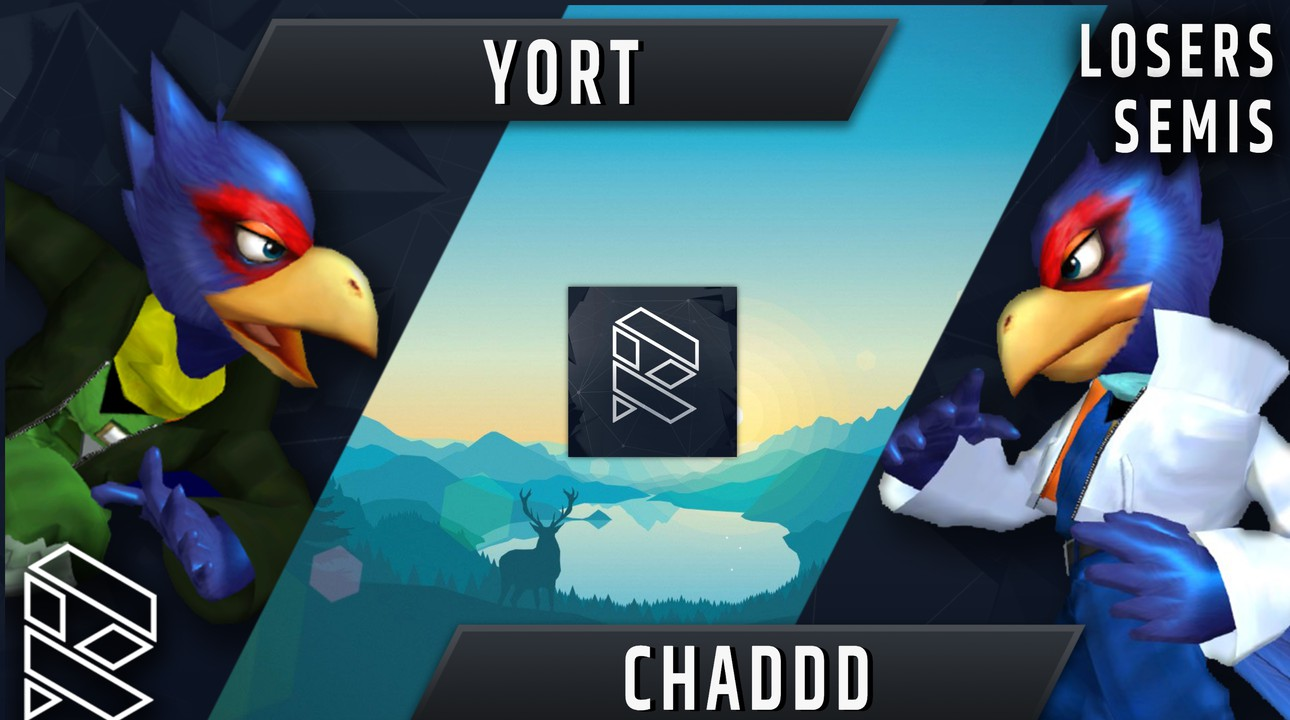
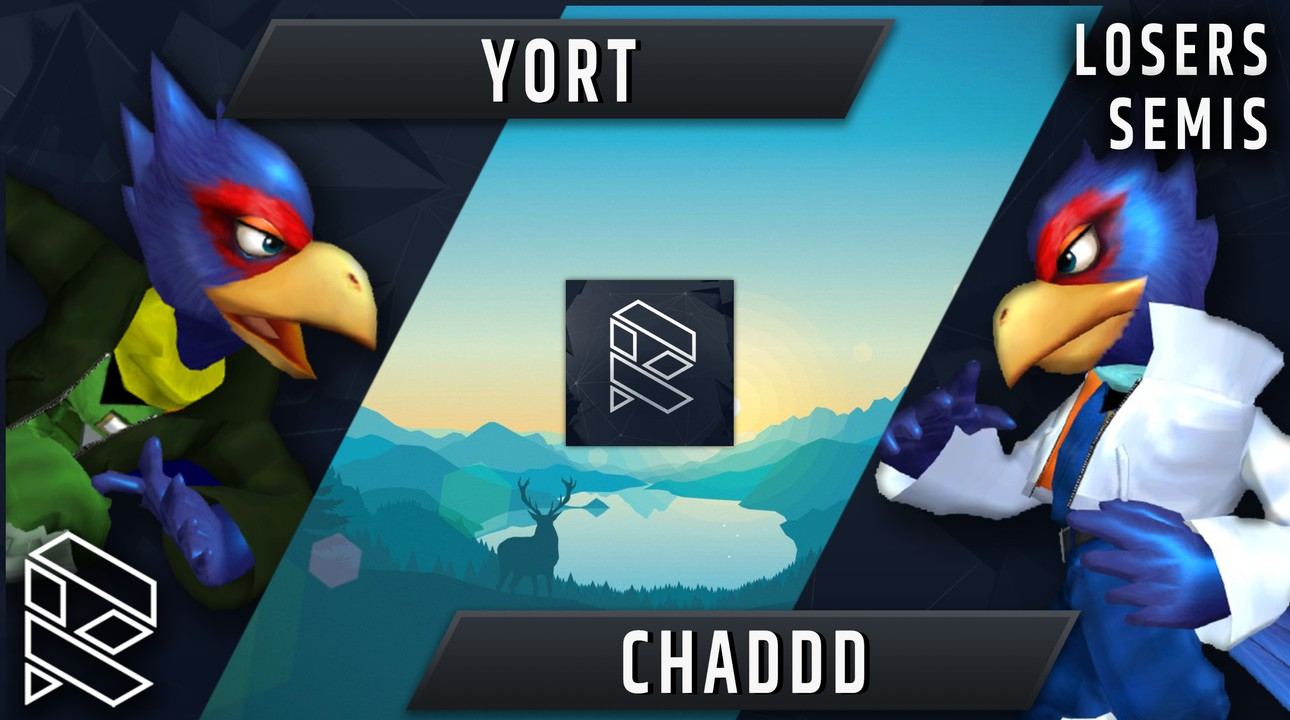
updated html generation and cropping

diff --git a/resources/web/output/singles-thumbnail.html b/resources/web/output/singles-thumbnail.html
@@ -12,7 +12,7 @@
             }
             body{
                 background-image: url('../images/RecursionBackground.png');
-                background-size: 1920px 1080px;
+                background-size: 1925px 1085px;
                 background-repeat: no-repeat;
                 position: fixed;
             }
@@ -124,7 +124,7 @@
 
             document.getElementById('p1CharacterImage').src = character1Url;
             document.getElementById('p2CharacterImage').src = character2Url;
-            document.body.style.zoom = "80%"
+            document.body.style.zoom = "70%"
         </script>
 
     </body>

diff --git a/resources/web/templates/singles-thumbnail-template.html b/resources/web/templates/singles-thumbnail-template.html
@@ -12,7 +12,7 @@
             }
             body{
                 background-image: url('../images/RecursionBackground.png');
-                background-size: 1920px 1080px;
+                background-size: 1925px 1085px;
                 background-repeat: no-repeat;
                 position: fixed;
             }
@@ -124,7 +124,7 @@
 
             document.getElementById('p1CharacterImage').src = character1Url;
             document.getElementById('p2CharacterImage').src = character2Url;
-            document.body.style.zoom = "80%"
+            document.body.style.zoom = "70%"
         </script>
 
     </body>

diff --git a/thumbnailgen/app.py b/thumbnailgen/app.py
@@ -5,7 +5,8 @@ from thumbnailgen.models.singles_image import SinglesImage
 from thumbnailgen.models.doubles_image import DoublesImage
 from thumbnailgen.util.common import get_root_dir
 from thumbnailgen.util.screenshoter import screenshot_file
-from thumbnailgen.util.image_util import cutoff_width, convert_to_jpg, resize
+from thumbnailgen.util.image_util import cutoff_width, \
+    cutoff_height, convert_to_jpg, resize
 
 config = Config()
 if __name__ == '__main__':
@@ -17,7 +18,8 @@ if __name__ == '__main__':
         html_output_location = SinglesImage.write_file_with_config()
         dest_image_location = str(Path(get_root_dir(), 'singles-thumbnail.png'))
         screenshot_file(html_output_location, dest_image_location)
-        cutoff_width(dest_image_location, 780)
+        cutoff_width(dest_image_location, 1150)
+        cutoff_height(dest_image_location, 175)
         resize(dest_image_location, 1290, 720)
         convert_to_jpg(dest_image_location, 90)
     elif type.lower() == 'doubles':
